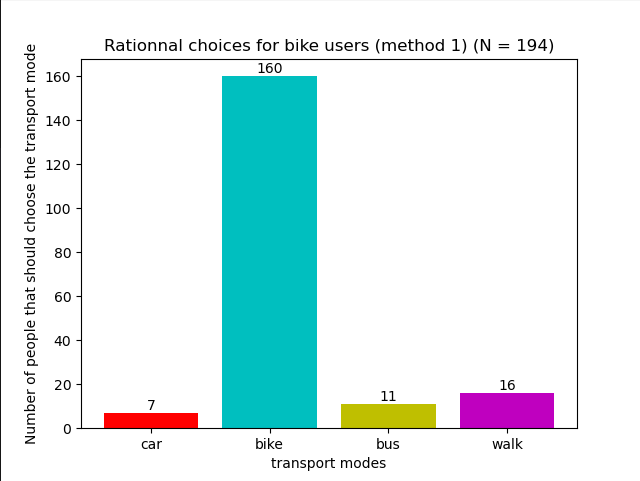
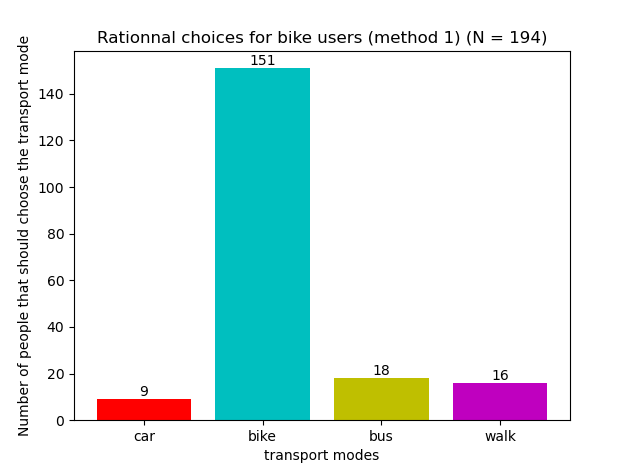
changement resultats

Changed region(s): [[0.0303, 0.0603, 0.9091, 0.9957]]

diff --git a/extraction.py b/extraction.py
@@ -249,16 +249,30 @@ def extract_impossible_transp(results):
             impossible_transp.append('bike')
         if (float(results[2]) > 5):
             impossible_transp.append('walk')
+        return impossible_transp
     if (b):
+        if (results[4] == 'X' or float(results[2]) > 15):
+            impossible_transp.append('bike')
+        if (results[5] == 'X'):
+            impossible_transp.append('car')
+        if (results[6] == 'X' or float(results[2]) < 1):
+            impossible_transp.append('bus')
+        if (float(results[2]) > 5 or results[7] == 'X'):
+            impossible_transp.append('walk')
+    
+    if len(impossible_transp) < 4 :
+        return impossible_transp
+    else :
+        impossible_transp = []
         if (results[4] == 'X'):
             impossible_transp.append('bike')
         if (results[5] == 'X'):
             impossible_transp.append('car')
-        if (results[6] == 'X' and float(results[2]) < 1):
+        if (results[6] == 'X'):
             impossible_transp.append('bus')
-        if (float(results[2]) > 5 or results[7] == 'X'):
+        if (results[7] == 'X'):
             impossible_transp.append('walk')
-    return impossible_transp
+        return impossible_transp
 
 
 # Retourne le choix que devrait faire l'utilisateur. (méthode 1)
